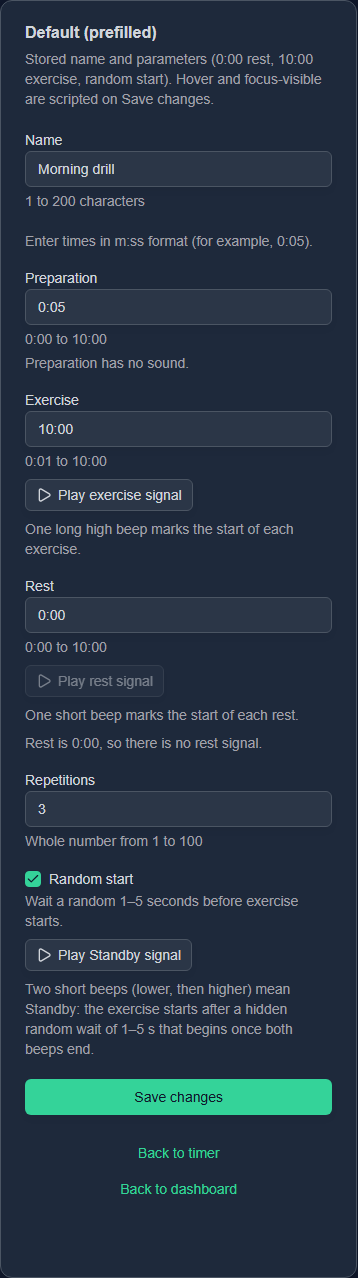
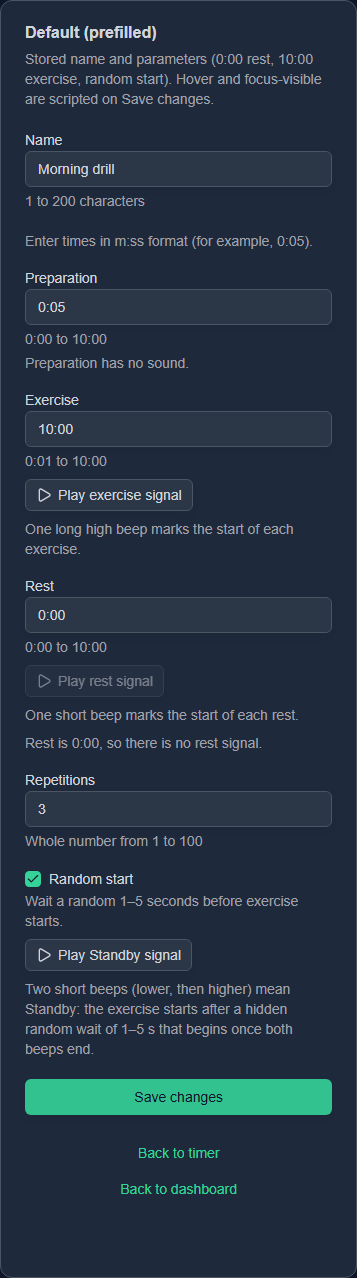
fix(edit-saved-drill): address impl-review F1, F2, F4
- F1: a parameter change during a save no longer leaves a stale Saved
  confirmation (editedDuringSave flag in the create controller, 3 tests).
- F2: re-capture hover-*-1280 screenshots with a real pointer hover.
- F4: methods other than PUT on /api/drills/{id} answer 405 with
  Allow: PUT and no body (DELETE stays reserved for S-13).
- Record the impl-review report and decisions, update the handoff.

diff --git a/src/lib/drill-create-controller.ts b/src/lib/drill-create-controller.ts
@@ -23,7 +23,10 @@ export interface DrillCreateController {
     /** Validates the name at the start of a submit so its error shows together with parameter errors. */
     submitAttempt(): void;
     save(values: DrillConfigInput): Promise<void>;
-    /** The parameters changed: a stale `Saved "…"` or alert is dropped. The typed name and any name error stay. No-op while saving. */
+    /**
+     * The parameters changed: a stale `Saved "…"` or alert is dropped. The typed name and any name error stay.
+     * While saving it only remembers the change, so the reply of that save does not report the edited values as saved.
+     */
     markEdited(): void;
     subscribe(listener: () => void): () => void;
     getSnapshot(): DrillCreateSnapshot;
@@ -50,6 +53,15 @@ function failureFrom(response: Extract<SaveDrillResponse, { ok: false }>): Pick<
 export function createDrillCreateController(saveDrill: SaveDrillPort, options: DrillCreateOptions = {}): DrillCreateController {
     const listeners = new Set<() => void>();
     let snapshot: DrillCreateSnapshot = { name: options.initialName ?? "", nameError: null, status: "idle", failure: null, savedName: null };
+    // The parameters changed after the request left: its reply describes values the form no longer shows.
+    let editedDuringSave = false;
+
+    // A function so the flag read after the `await` is not narrowed to the `false` assigned before it.
+    function takeEditedDuringSave(): boolean {
+        const edited = editedDuringSave;
+        editedDuringSave = false;
+        return edited;
+    }
 
     function publish(next: DrillCreateSnapshot) {
         snapshot = next;
@@ -79,6 +91,7 @@ export function createDrillCreateController(saveDrill: SaveDrillPort, options: D
                 return;
             }
 
+            editedDuringSave = false;
             publish({ ...snapshot, nameError: null, status: "saving", failure: null, savedName: null });
 
             let response: SaveDrillResponse;
@@ -88,14 +101,27 @@ export function createDrillCreateController(saveDrill: SaveDrillPort, options: D
                 response = { ok: false, code: "unexpected", message: SAVE_DRILL_MESSAGES.unexpected };
             }
 
+            // Edited during the request: drop the outcome the way `markEdited` does after a reply, so neither `Saved "…"` nor an alert refers to the old values.
+            const stale = takeEditedDuringSave();
+
             if (response.ok) {
-                publish({ name: options.keepAfterSave ? response.drill.name : "", nameError: null, status: "saved", failure: null, savedName: response.drill.name });
+                const name = options.keepAfterSave ? response.drill.name : "";
+                publish(
+                    stale
+                        ? { name, nameError: null, status: "idle", failure: null, savedName: null }
+                        : { name, nameError: null, status: "saved", failure: null, savedName: response.drill.name },
+                );
                 return;
             }
-            publish({ ...snapshot, status: "error", savedName: null, ...failureFrom(response) });
+            const failure = failureFrom(response);
+            publish({ ...snapshot, savedName: null, ...failure, status: stale ? "idle" : "error", failure: stale ? null : failure.failure });
         },
 
         markEdited() {
+            if (snapshot.status === "saving") {
+                editedDuringSave = true;
+                return;
+            }
             if (snapshot.status !== "saved" && snapshot.status !== "error") return;
             publish({ ...snapshot, status: "idle", failure: null, savedName: null });
         },

diff --git a/src/lib/drill-create-controller.test.ts b/src/lib/drill-create-controller.test.ts
@@ -280,7 +280,7 @@ void test("markEdited drops a stale confirmation or alert but keeps the typed na
     assert.deepEqual(failing.getSnapshot(), { name: "Run", nameError: null, status: "idle", failure: null, savedName: null });
 });
 
-void test("markEdited is a no-op while saving and while idle, and does not notify subscribers then", async () => {
+void test("markEdited while saving does not change the snapshot or notify subscribers and while idle is a no-op", async () => {
     const port = deferredPort();
     const controller = createDrillCreateController(port.port, EDIT);
     let notifications = 0;
@@ -297,7 +297,57 @@ void test("markEdited is a no-op while saving and while idle, and does not notif
     assert.equal(notifications, seen);
     port.resolve({ ok: true, drill: drill("Run") });
     await pending;
-    assert.equal(controller.getSnapshot().status, "saved");
+});
+
+void test("a parameter change during a successful save leaves no Saved confirmation behind", async () => {
+    const port = deferredPort();
+    const controller = createDrillCreateController(port.port, EDIT);
+    const pending = controller.save(VALUES);
+    controller.markEdited();
+    assert.equal(controller.getSnapshot().status, "saving");
+    port.resolve({ ok: true, drill: drill("Run") });
+    await pending;
+    assert.deepEqual(controller.getSnapshot(), { name: "Run", nameError: null, status: "idle", failure: null, savedName: null });
+});
+
+void test("the edited-during-save flag does not leak into the next save", async () => {
+    const port = deferredPort();
+    const controller = createDrillCreateController(port.port, EDIT);
+    const first = controller.save(VALUES);
+    controller.markEdited();
+    port.resolve({ ok: true, drill: drill("Run") });
+    await first;
+    assert.equal(controller.getSnapshot().status, "idle");
+
+    const second = controller.save(VALUES);
+    port.resolve({ ok: true, drill: drill("Run") });
+    await second;
+    assert.deepEqual(controller.getSnapshot(), { name: "Run", nameError: null, status: "saved", failure: null, savedName: "Run" });
+});
+
+void test("a parameter change during a failed save drops the alert but keeps a name error", async () => {
+    const unavailable: SaveDrillResponse = { ok: false, code: "unavailable", message: SAVE_DRILL_MESSAGES.unavailable };
+    const alert = deferredPort();
+    const controller = createDrillCreateController(alert.port, EDIT);
+    const pending = controller.save(VALUES);
+    controller.markEdited();
+    alert.resolve(unavailable);
+    await pending;
+    assert.deepEqual(controller.getSnapshot(), { name: "Run", nameError: null, status: "idle", failure: null, savedName: null });
+
+    const duplicate: SaveDrillResponse = {
+        ok: false,
+        code: "duplicate_name",
+        message: SAVE_DRILL_MESSAGES.duplicate_name,
+        fieldErrors: { name: SAVE_DRILL_MESSAGES.duplicate_name },
+    };
+    const named = deferredPort();
+    const other = createDrillCreateController(named.port, EDIT);
+    const second = other.save(VALUES);
+    other.markEdited();
+    named.resolve(duplicate);
+    await second;
+    assert.deepEqual(other.getSnapshot(), { name: "Run", nameError: SAVE_DRILL_MESSAGES.duplicate_name, status: "idle", failure: null, savedName: null });
 });
 
 void test("markEdited keeps a name error so the field stays flagged until the name changes", async () => {

diff --git a/src/lib/services/drill-update.test.ts b/src/lib/services/drill-update.test.ts
@@ -8,6 +8,7 @@ import {
     OPEN_DRILL_MESSAGES,
     SAVE_DRILL_MESSAGES,
     handleUpdateDrillRequest,
+    methodNotAllowedResponse,
     updateDrillConfiguration,
     type DrillConfigurationStore,
     type DrillConfigurationUpdate,
@@ -245,4 +246,12 @@ void test("the success body is the saved drill and is never cached", async () =>
     assert.equal(response.status, 200);
     assert.equal(response.headers.get("cache-control"), "no-store");
     assert.equal(body.ok && body.drill.name, "Evening draw");
+});
+
+void test("the answer for methods other than PUT is a bodiless 405 with Allow: PUT and no-store", async () => {
+    const response = methodNotAllowedResponse();
+    assert.equal(response.status, 405);
+    assert.equal(response.headers.get("allow"), "PUT");
+    assert.equal(response.headers.get("cache-control"), "no-store");
+    assert.equal(await response.text(), "");
 });

diff --git a/src/lib/services/drill-configurations.ts b/src/lib/services/drill-configurations.ts
@@ -426,6 +426,12 @@ export async function handleUpdateDrillRequest(request: Request, context: Update
     return toResponse(await updateDrillConfiguration(context.store, context.userId, context.id, json.input, context.log));
 }
 
+// Any method but PUT on /api/drills/{id}: no session, id or store is read, so the answer reveals nothing about ownership.
+// DELETE is reserved for S-13 and is 405 until then.
+export function methodNotAllowedResponse(): Response {
+    return new Response(null, { status: 405, headers: { Allow: "PUT", "Cache-Control": "no-store" } });
+}
+
 export const OPEN_DRILL_MESSAGES = {
     unavailable: "Your saved timers are temporarily unavailable. Please try again later.",
     empty: "You have no saved timers yet.",

diff --git a/src/pages/api/drills/[id].ts b/src/pages/api/drills/[id].ts
@@ -1,6 +1,6 @@
 import type { APIRoute } from "astro";
 
-import { createSupabaseDrillStore, handleUpdateDrillRequest } from "@/lib/services/drill-configurations";
+import { createSupabaseDrillStore, handleUpdateDrillRequest, methodNotAllowedResponse } from "@/lib/services/drill-configurations";
 
 export const prerender = false;
 
@@ -12,3 +12,6 @@ export const PUT: APIRoute = async ({ request, locals, params }) => {
         store: locals.supabase ? createSupabaseDrillStore(locals.supabase) : null,
     });
 };
+
+// Astro would answer an unexported method with an empty 404; a 405 with `Allow` is the honest answer (PUT takes precedence over ALL).
+export const ALL: APIRoute = () => methodNotAllowedResponse();

diff --git a/context/changes/edit-saved-drill/reviews/impl-review.md b/context/changes/edit-saved-drill/reviews/impl-review.md
@@ -1,0 +1,84 @@
+<!-- IMPL-REVIEW-REPORT -->
+# Implementation Review: Edit Saved Drill (S-12)
+
+- **Plan**: context/changes/edit-saved-drill/plan.md
+- **Scope**: Full plan
+- **Reviewed phases**: 1, 2, 3
+- **Date**: 2026-10-07
+- **Verdict**: APPROVED
+- **Resolution**: F1, F2, F4 fixed in one follow-up commit; F3 accepted as-is
+- **Findings**: 0 critical, 2 warnings, 2 observations
+
+## Verdicts
+
+| Dimension | Verdict |
+|-----------|---------|
+| Plan Adherence | PASS |
+| Scope Discipline | PASS |
+| Safety & Quality | WARNING |
+| Architecture | PASS |
+| Pattern Consistency | PASS |
+| Success Criteria | WARNING |
+
+## Checked and found correct
+
+- `PUT /api/drills/{id}` (`src/pages/api/drills/[id].ts`, `handleUpdateDrillRequest`): order 401 → 503 → 404 (non-UUID, before the body is read) → 415 → 413 → 400 → service; `id`, `user_id`, `created_at` in the body → 400 (strict shape, tested); the id comes only from the path and is lower-cased; `Cache-Control: no-store`; only the error code is logged.
+- `store.update`: `.update(six columns).eq("id").eq("user_id").select(SAVED_DRILL_COLUMNS).maybeSingle()`; `null` → 404, identical to a non-UUID id (byte-identical handler test and smoke step); 23505 + `drill_configurations_user_name_key` → 409 with `fieldErrors.name`; a limit error is mapped to `unexpected`.
+- Database contract: no migration (`git diff main -- supabase/migrations` empty); pgTAP `plan(90)` covers zero rows for B by id with A's row unchanged, a different-case collision with another own row (23505), the same name as another user's row, sibling `updated_at` untouched, update at the 50-row limit. Case-only rename of the same row passes (pgTAP + smoke + unit).
+- `/{id}/edit`: `SAVED_DRILL_PATH` accepts only `/{uuid}(/edit)?/?`; `/not-a-uuid/edit` is public and gives the same 404; the page mirrors `[id].astro` (`private, no-store`, `noindex`, 302 with `next=/{id}/edit`, 503 view, the id is not echoed).
+- ESLint globs `src/pages/[[]id[]].astro` and `src/pages/[[]id[]]/edit.astro` plus a persistent test that the rule is enabled and reports a literal colour in both files.
+- Generalized controller/hook/form: defaults keep the `/create` behavior (the 14 existing controller tests are unchanged and green); `markEdited`; the typed name and values stay after 409/400/404; `putSaveDrill` maps 409 → `duplicate_name`, 404 → `not_found`.
+- `SavedDrillDetails`: `Edit timer` link in `saved-drill-actions`, no Delete code (S-13), Start stays primary. Semantic tokens, existing primitives only.
+
+Gates run during this review: `npm test` 183/183, `npm run lint` clean, rule tests 5/5, `npx astro check` 0 errors (1 pre-existing hint), `npm run build` OK, `npx supabase test db` 90/90 PASS (shared stack, no reset).
+
+## Findings
+
+### F1 — Stale `Saved "…"` when parameters change during saving
+
+- **Severity**: ⚠ WARNING
+- **Impact**: 🔎 MEDIUM — real tradeoff; pause to reason through it
+- **Dimension**: Safety & Quality
+- **Location**: src/lib/drill-create-controller.ts:98 (`markEdited`), src/components/timer/DrillEditApp.tsx:43
+- **Detail**: Only the name field is `readOnly` while saving (`DrillCreateForm.tsx:70`); the parameter fields and the Random start checkbox in `DrillConfigForm` stay editable. `markEdited()` is a no-op while `status === "saving"`, so a parameter change made during the PUT is followed by `Saved "<name>".` although the form now shows values that were not saved. This contradicts the intent of review F2 ("`Saved "…"` never outlives a change of parameters"). The same latent window existed on `/create`, but there the success clears the form, so it matters mainly for edit.
+- **Fix A ⭐ Recommended**: Remember an edit during saving in the controller (`markEdited` while saving sets a flag; on success with the flag set publish `idle` without `savedName`, or `saved` and then immediately `idle`).
+  - Strength: Fixes it where the state lives, covered by the existing controller test style; no UI change for `/create`.
+  - Tradeoff: One more piece of controller state and 1–2 tests.
+  - Confidence: HIGH — the controller already owns the saved/idle transitions.
+  - Blind spot: Whether the user should still get some success feedback in that case.
+- **Fix B**: Make the parameter fields read-only while `pending` (like the name field).
+  - Strength: Removes the window entirely, consistent with the name field.
+  - Tradeoff: Touches `DrillConfigForm` shared with the run configuration and `/create`; needs fixture/screenshot updates.
+  - Confidence: MED — `readOnly` on the checkbox needs a different mechanism (`disabled`).
+  - Blind spot: Visual gate of the saving state for create and edit.
+- **Decision**: ACCEPTED — Fix A (2026-10-07). `markEdited` while saving sets an `editedDuringSave` flag in the controller (`src/lib/drill-create-controller.ts`); when the reply arrives the flag is taken and reset, and the outcome is published as `idle` without `savedName` (success; the name still follows `keepAfterSave`) or without the alert (failure; a name error such as a duplicate stays). Three controller tests (success, failure incl. name error, no leak into the next save); break-check: with the flag never set the three tests go red. Tradeoff recorded: after an edit during saving the user gets no `Saved` confirmation for that request; the values on screen are still unsaved and the next `Save changes` persists them.
+
+### F2 — `hover-*-1280` screenshots are byte-identical to `default-*-1280`
+
+- **Severity**: ⚠ WARNING
+- **Impact**: 🏃 LOW — quick decision; fix is obvious and narrowly scoped
+- **Dimension**: Success Criteria
+- **Location**: context/changes/edit-saved-drill/screenshots/hover-{light,dark}-1280.png
+- **Detail**: `md5(hover-dark-1280.png) == md5(default-dark-1280.png)` and the same for light; the README says these show hover on `Save changes`. The scripted gate asserts the colour change, but the 1280 px visual evidence does not show the hover state (the 390 px files differ). Manual row 3.4 (screenshot review) is still unchecked.
+- **Fix**: Re-capture `hover-*-1280` with the pointer kept over `Save changes` (and the button in the clip) and review them as part of 3.4.
+- **Decision**: ACCEPTED (2026-10-07). `hover-{light,dark}-1280.png` re-captured with a real pointer (Playwright `hover()` on `Save changes`, `:hover` and the computed background asserted, tall viewport so nothing scrolls under the pointer) and no longer byte-identical to `default-*`. The other hover files (`hover-*-390`, `details-edit-hover-*`) already differed. Human review of the screenshots (3.4) is still open.
+
+### F3 — Manual rows pending; 2.7–2.10 checked by a script, not a human
+
+- **Severity**: 💡 OBSERVATION
+- **Impact**: 🏃 LOW — quick decision; fix is obvious and narrowly scoped
+- **Dimension**: Success Criteria
+- **Location**: context/changes/edit-saved-drill/plan.md (Progress)
+- **Detail**: 1.7, 3.4, 3.5 are unchecked (honestly, a script did 1.7). 2.7–2.10 are `[x]` with "by Playwright script, not a human"; `lessons.md` says manual steps are marked done after the user confirms them. The repo smoke script itself (Mailpit path) has not yet run unchanged — only a scratchpad copy with GoTrue `generate_link`; CI will run it.
+- **Fix**: Get the human click-through (3.5, incl. bfcache Back, emoji/NFD) and screenshot review (3.4) before merging; let CI's smoke job confirm the repo script.
+- **Decision**: ACCEPTED-AS-IS (2026-10-07). Rows 1.7, 3.4, 3.5 and the human confirmation of 2.7–2.10 are done by the user at the end of the queue; CI runs the real smoke script with Mailpit.
+
+### F4 — Other methods on `/api/drills/{id}` not verified
+
+- **Severity**: 💡 OBSERVATION
+- **Impact**: 🏃 LOW — quick decision; fix is obvious and narrowly scoped
+- **Dimension**: Success Criteria
+- **Location**: src/pages/api/drills/[id].ts
+- **Detail**: Plan 1.4 asks to verify that methods other than `PUT` get Astro's default response without ownership detail; neither the handoff nor the smoke records it (by construction no store access happens, so the risk is low).
+- **Fix**: Add a smoke assertion that `GET`/`DELETE /api/drills/{own id}` and `/{random uuid}` give the same status and body.
+- **Decision**: ACCEPTED (2026-10-07). `src/pages/api/drills/[id].ts` exports `ALL` next to `PUT` (Astro dispatches `mod[method] ?? mod.ALL`, so `PUT` wins): any other method gets a bodiless 405 with `Allow: PUT` and `Cache-Control: no-store`, built by `methodNotAllowedResponse()` (unit test in `drill-update.test.ts`). Without it Astro answered an empty 404. Verified against the production preview: `GET`/`POST`/`PATCH`/`DELETE` on a UUID → 405 + `Allow: PUT`. No session, id or store is read, so the answer is the same for own, foreign and random ids. DELETE is reserved for S-13 and is **not** implemented — 405 today; S-13 will add its own export.

diff --git a/context/changes/edit-saved-drill/handoff.md b/context/changes/edit-saved-drill/handoff.md
@@ -69,3 +69,15 @@ Break-check (smoke): with the `isDrillId` guards removed from `updateDrillConfig
 Rows 2.7–2.10 were executed **by a Playwright script, not a human** (production preview, real browser, two throw-away users via GoTrue admin, deleted afterwards) and are checked in the plan with that annotation: owner flow including Start running the new parameters (`Repetition 1 of 1`, exercise from 0:02); duplicate / case-only / 200 / 201; foreign, random and non-UUID `/{x}/edit` identical 404, guest redirects; Tab order, focus after save, focus rings. Extra scripted: a row deleted behind the form (not-found alert) and a cleared session (unauthorized alert with a sign-in link back to the edit page). Visual-gate note: the preview page is 414 px wide at 390 px even without the new section (existing preview content), so the check asserts only that the edit section does not widen it.
 
 Still open for a human: 1.7 (scripted in Phase 1, left unchecked), 3.4 (review of the screenshots; the existing seven-state timer gate was not re-screenshotted, only a section was added to `TimerUiPreview`) and 3.5 (final click-through in a real browser, including bfcache Back after saving; also emoji/NFD names, real devices, sound, screen reader).
+
+## Review fixes — impl-review (APPROVED, 0 critical / 2 warnings / 2 observations)
+
+One follow-up commit; decisions are in `reviews/impl-review.md`.
+
+- **F1** `src/lib/drill-create-controller.ts`: `markEdited` during `saving` sets `editedDuringSave`; the reply then publishes `idle` without `savedName` / alert (name error kept, name per `keepAfterSave`). 3 new controller tests (27 in the file); break-check red without the flag.
+- **F2** `screenshots/hover-{light,dark}-1280.png` re-captured with a real `hover()` (not byte-identical to `default-*` any more); README hover row unchanged in meaning.
+- **F3** accepted as-is: 1.7, 3.4, 3.5 and human confirmation of 2.7–2.10 stay with the user.
+- **F4** `src/pages/api/drills/[id].ts` `ALL` → `methodNotAllowedResponse()` (405, `Allow: PUT`, `no-store`, empty body); unit test plus a check on the production preview (GET/POST/PATCH/DELETE → 405). DELETE is not implemented (S-13).
+
+Gates (local, worktree): `npm test` 187/187; `npm run lint` clean; rule tests 5/5; `npx astro check` 0 errors (1 pre-existing hint); `npm run build` OK; `npx supabase test db` 90/90 PASS (shared stack, no reset); no migration, no `db push`/`db reset`.
+

diff --git a/context/changes/edit-saved-drill/screenshots/README.md b/context/changes/edit-saved-drill/screenshots/README.md
@@ -5,7 +5,7 @@ Captured on 2026-10-07 from the local Astro dev server (`/dev/timer-ui?theme=lig
 | File prefix                                      | State                                                               | Visual-gate state                         |
 | ------------------------------------------------ | ------------------------------------------------------------------- | ----------------------------------------- |
 | `default-*`                                      | prefilled stored name and parameters (0:00 rest, 10:00 exercise)    | default (also the "empty" N/A, see below) |
-| `hover-*`                                        | hover on `Save changes` (background change asserted)                | hover                                     |
+| `hover-*`                                        | hover on `Save changes` (real pointer; background change asserted)  | hover                                     |
 | `focus-visible-*`                                | keyboard Tab from the name onto `Save changes` (ring asserted)      | focus-visible                             |
 | `saved-*`                                        | `Saved "Morning drill".`, name kept, links stay                     | default (success)                         |
 | `saving-*`                                       | `Saving…`, button disabled, name read-only                          | disabled and loading                      |

diff --git a/context/changes/edit-saved-drill/change.md b/context/changes/edit-saved-drill/change.md
@@ -1,7 +1,7 @@
 ---
 change_id: edit-saved-drill
 title: Edit own saved timer (name and parameters)
-status: implementing
+status: impl_reviewed
 created: 2026-10-07
 updated: 2026-10-07
 archived_at: null
